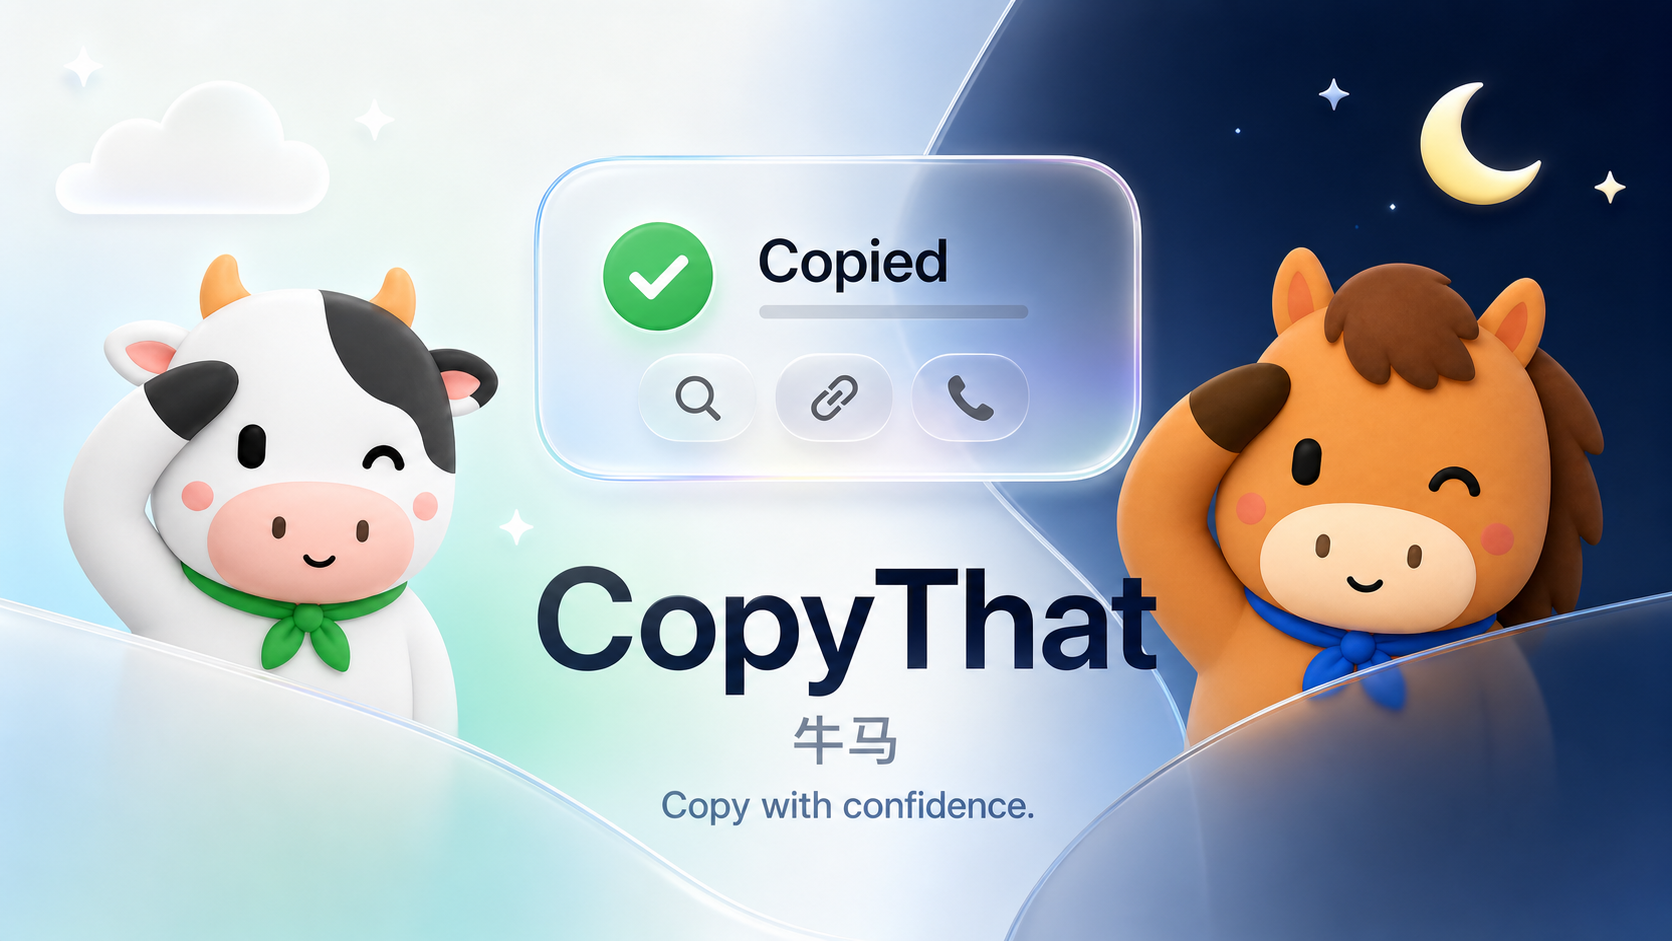
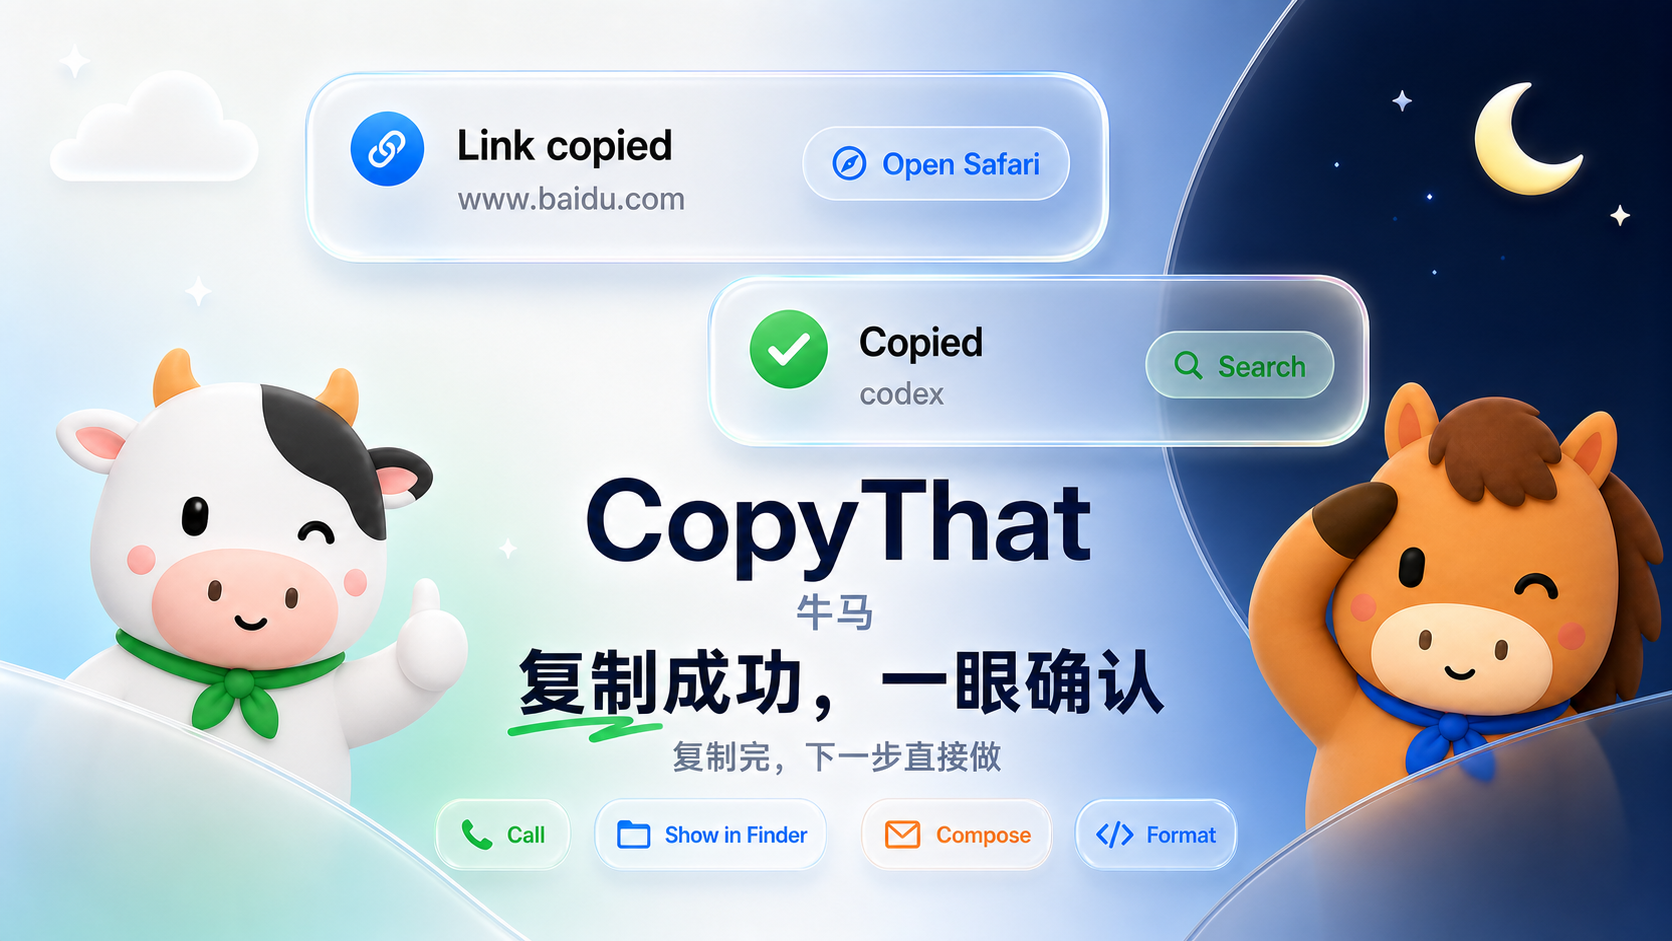
Refresh bilingual README and latest hero artwork

diff --git a/README.md b/README.md
@@ -1,121 +1,193 @@
 # CopyThat（牛马）1.5.0
 
-![CopyThat — Copy with confidence](marketing/CopyThat-Hero.png)
+![CopyThat — 复制成功，一眼确认](marketing/CopyThat-Hero.png)
 
-A lightweight native macOS menu bar app that confirms clipboard updates with a
-non-activating floating panel and offers safe, context-aware next actions.
+**CopyThat** is a lightweight native macOS copy-feedback assistant.<br>
+**牛马**是一款轻量的 macOS 原生复制反馈助手。
 
-**CopyThat** is the English product name. On a Simplified Chinese macOS system,
-the localized app name is **牛马**.
+[简体中文](#简体中文) · [English](#english)
 
-## Requirements
+---
+
+## 简体中文
+
+### 为什么做 CopyThat？
+
+这个项目最初源于一个很简单的烦恼：在 Mac 上按下 `Command + C`
+之后，偶尔会遇到复制没有生效的情况。
+
+系统没有明显反馈，所以在粘贴之前，很难确定内容到底有没有复制成功。
+CopyThat 最初只想解决这一件事：当系统剪贴板成功更新时，立即显示一个轻量浮窗，
+让我一眼确认刚才的内容确实复制成功了。
+
+继续开发后，我发现复制之后通常还有下一步操作。于是 CopyThat 从单纯的
+“复制成功提醒”，逐渐变成了一个轻量的复制助手：确认复制成功，并根据复制内容
+提供刚刚好的下一步操作。
+
+### 可以做什么？
+
+- **复制反馈**：剪贴板更新后立即显示不抢焦点的 Liquid Glass 浮窗。
+- **链接**：识别 `http://`、`https://` 和 `www.` 开头的地址，点击即可使用 Safari 打开。
+- **文字**：点击 **Search**，使用 DuckDuckGo、Bing、百度、Google 或自定义搜索引擎搜索。
+- **电话号码**：点击 **Call**，交给 macOS 的 `tel:` 处理程序拨打。
+- **邮箱地址**：点击 **Compose**，打开默认邮件 App 并自动填入收件人。
+- **Finder 文件**：点击 **Show in Finder**，直接显示文件所在位置。
+- **图片**：显示临时低分辨率缩略图，浮窗关闭后立即释放。
+- **代码**：本地识别 Python、JavaScript、Swift、HTML、CSS、JSON、SQL 和 Bash。
+- **格式化**：JSON 和 Python 可在用户主动点击 **Format** 后预览并复制格式化结果。
+- **自定义检测**：可在设置中分别启用或关闭不同内容类型。
+
+### 它不是什么？
+
+CopyThat **不是剪贴板历史管理器**：
+
+- 不保存复制历史
+- 不建立剪贴板数据库
+- 不上传剪贴板内容
+- 不记录剪贴板原文
+- 不包含统计、遥测或自动更新服务
+
+所有内容识别均在 Mac 本地完成。只有当你主动点击 **Search**、**Open Safari**、
+**Call** 或其他外部操作时，对应内容才会交给系统 App 或你选择的搜索引擎。
+
+### 下载与安装
+
+1. 从 [最新 Release](https://github.com/evanlng/CopyThat/releases/latest) 下载 `CopyThat.dmg`。
+2. 打开 DMG，将 `CopyThat.app` 拖入“应用程序”文件夹。
+3. 从“应用程序”启动 CopyThat；它只显示在菜单栏，不会出现在 Dock。
+
+当前安装包使用临时签名，尚未经过 Apple 公证。首次启动时，macOS 可能要求你按住
+Control 点击应用并选择“打开”。免除此步骤需要 Apple Developer Program、
+Developer ID 签名和 Apple 公证。
+
+### 系统要求
+
+- macOS 14 或更高版本
+- Apple Silicon Mac（arm64）
+- 从源码构建需要 Xcode 27 beta 或更高版本
+- 无第三方依赖
+
+### 从源码运行
+
+1. 使用 Xcode 打开 `ClipboardFeedback.xcodeproj`。
+2. 选择 `ClipboardFeedback` scheme 和 **My Mac**。
+3. 点击 Run。
+
+最终产品名称是 `CopyThat.app`；简体中文系统中显示为“牛马”。
+
+### 性能与隐私设计
+
+- `ClipboardMonitor` 只检查 `NSPasteboard.changeCount`，正常间隔为 250 ms；
+  复制后短时间切换为 80 ms，并在 2.4 秒后恢复。
+- Timer tolerance 允许 macOS 合并唤醒；暂停反馈时计时器会完全停止。
+- 只有剪贴板变化后才进行一次有界分析，不持续处理内容。
+- 文本只短暂保留最多 1,000 个字符；文件最多读取 20 个 URL。
+- 图片仅生成最大 240 px 的临时缩略图，不写入磁盘或缓存。
+- 快速连续复制会复用同一个浮窗和 SwiftUI hosting view。
+- 最终 Apple Silicon Release 的空闲采样均为 0.0% CPU，内存约 25 MB。
+
+### 已知限制
+
+当前版本确认的是“系统剪贴板已经发生变化”。它不会全局监听 `Command + C`，
+因此无法直接弹出“复制失败”提示。未来若加入该功能，需要单独的键盘事件监听，
+并由用户授予输入监控或辅助功能权限。
+
+---
+
+## English
+
+### Why CopyThat?
+
+CopyThat started with a small but recurring frustration: after pressing
+`Command + C` on a Mac, a copy action would occasionally appear to do nothing.
+
+macOS provides no obvious confirmation, so it is difficult to know whether the
+clipboard was actually updated until you try to paste. The original goal of
+CopyThat was simple: show a lightweight floating HUD whenever a clipboard update
+succeeds, making successful copies immediately visible.
+
+While building it, I realized that copying is often only the first step.
+CopyThat therefore evolved from a copy-confirmation indicator into a lightweight
+assistant that recognizes the copied content and offers the most useful next action.
+
+### What can it do?
+
+- **Copy feedback**: shows a non-activating Liquid Glass HUD after a clipboard update.
+- **Links**: recognizes `http://`, `https://`, and `www.` addresses and opens them in Safari.
+- **Text**: searches with DuckDuckGo, Bing, Baidu, Google, or a custom search engine.
+- **Phone numbers**: hands the number to the macOS `tel:` handler through **Call**.
+- **Email addresses**: opens the default mail app with the recipient filled in through **Compose**.
+- **Finder files**: reveals copied files through **Show in Finder**.
+- **Images**: displays a temporary low-resolution thumbnail and releases it with the HUD.
+- **Code**: locally detects Python, JavaScript, Swift, HTML, CSS, JSON, SQL, and Bash.
+- **Formatting**: JSON and Python can be reviewed and copied after the user clicks **Format**.
+- **Configurable detection**: each smart content type can be enabled or disabled separately.
+
+### What is it not?
+
+CopyThat is **not a clipboard manager**:
+
+- It does not save clipboard history.
+- It does not create a clipboard database.
+- It does not upload clipboard contents.
+- It does not log copied text.
+- It contains no analytics, telemetry, or update service.
+
+All content detection runs locally. Copied data is handed to another app or a
+search engine only after you explicitly click an external action such as
+**Search**, **Open Safari**, or **Call**.
+
+### Download and install
+
+1. Download `CopyThat.dmg` from the [latest release](https://github.com/evanlng/CopyThat/releases/latest).
+2. Open the DMG and drag `CopyThat.app` into Applications.
+3. Launch CopyThat from Applications. It appears only in the menu bar and has no Dock icon.
+
+The current build is ad-hoc signed and has not been notarized by Apple. On first
+launch, macOS may require Control-clicking the app and choosing **Open**. Removing
+that step requires Apple Developer Program membership, Developer ID signing, and
+Apple notarization.
+
+### Requirements
 
 - macOS 14 or later
 - Apple Silicon Mac (arm64)
-- Xcode 27 beta or later (required for the native Icon Composer app icon)
-- No third-party packages
+- Xcode 27 beta or later when building from source
+- No third-party dependencies
 
-## Open and run
+### Run from source
 
 1. Open `ClipboardFeedback.xcodeproj` in Xcode.
-2. Select the `ClipboardFeedback` scheme and **My Mac** destination.
+2. Select the `ClipboardFeedback` scheme and **My Mac**.
 3. Press Run.
 
-The built product is `CopyThat.app`. It appears only in the menu bar and
-intentionally has no Dock icon.
+The built product is `CopyThat.app`; its Simplified Chinese display name is “牛马”.
 
-## Install a GitHub Release
+### Performance and privacy design
 
-1. Open `CopyThat.dmg`.
-2. Drag `CopyThat.app` into the Applications folder.
-3. Open CopyThat from Applications.
+- `ClipboardMonitor` checks only `NSPasteboard.changeCount`: every 250 ms normally,
+  briefly every 80 ms after a copy, then back to normal after 2.4 seconds.
+- Timer tolerance lets macOS coalesce wakeups, and pausing feedback stops the timer.
+- Content analysis runs once, and only after the clipboard changes.
+- At most 1,000 text characters and 20 file URLs are retained for the short-lived HUD.
+- Images become temporary thumbnails no larger than 240 px and are never written to disk.
+- Rapid copies reuse the same panel and SwiftUI hosting view.
+- Final Apple Silicon Release samples reported 0.0% idle CPU and about 25 MB of memory.
 
-The current downloadable build is ad-hoc signed because this project does not
-yet have a `Developer ID Application` certificate. On first launch, macOS may
-require Control-clicking the app and choosing **Open**. A public release without
-that step requires Apple Developer Program membership, Developer ID signing,
-and Apple notarization.
+### Known limitation
 
-## Privacy and permissions
+This version confirms that the system pasteboard changed. It does not globally
+observe `Command + C`, so it cannot explicitly display “Copy failed.” A future
+implementation would require a separate keyboard event monitor and user-granted
+Input Monitoring or Accessibility permission.
 
-- Clipboard contents are inspected locally and never sent over the network.
-- Clipboard contents are not logged or stored as history.
-- The app target uses App Sandbox without the outgoing-network entitlement.
-  The app contains no update checker, telemetry, external plugin runtime, or
-  script execution.
-- No Accessibility, Input Monitoring, or Screen Recording permission is needed
-  for the MVP because it observes `NSPasteboard.changeCount` rather than global
-  keyboard events.
-- **Launch at Login** uses `SMAppService`. For reliable registration, place a
-  signed build in `/Applications`. macOS may show it under **System Settings →
-  General → Login Items**.
+---
 
-## Behavior and architecture
+## Core modules / 核心模块
 
-- `ClipboardMonitor` checks only `NSPasteboard.changeCount`. It polls every 250 ms
-  normally, briefly switches to 80 ms after a copy, and returns to the normal
-  interval after 2.4 seconds. Timer tolerance lets macOS coalesce wakeups.
-  Pausing feedback stops the timer completely.
-- `ClipboardAnalyzer` performs one bounded inspection only after `changeCount`
-  changes. It retains at most 1,000 text characters and 20 file URLs for the
-  short-lived HUD; there is no history or database.
-- Shows text, link, phone number, email address, file, image, code, or generic feedback.
-- Prefers the semantic pasteboard URL type, then recognizes full `http://` and
-  `https://` strings. Addresses beginning with `www.` are normalized to HTTPS.
-- Uses a compile-time detector plugin protocol and one audited action interface.
-  Built-in actions open links in Safari, call phone numbers through
-  the system `tel:` handler, compose email through `mailto:`, and reveal files
-  in Finder. Actions run only after the user clicks the toast button.
-- Ordinary copied text includes a **Search** action that opens the query in Safari.
-  DuckDuckGo is the default; Bing, Baidu, Google, and a custom search URL template
-  are available in General settings. Custom templates use one `{query}` placeholder
-  inside an `http://` or `https://` query parameter. No text leaves the app unless
-  the user clicks Search.
-- Includes a Detection settings tab where each smart content type can be enabled
-  or disabled independently.
-- Image copies are decoded directly into a temporary thumbnail no larger than
-  240 pixels. The original image is never cached or written, and the thumbnail
-  is released when the HUD disappears.
-- Developer Mode recognizes Python, JavaScript, Swift, HTML, CSS, JSON, SQL, and
-  Bash using bounded local rules. It does not use AI, a compiler, or the network.
-- JSON and Python show a **Format** button. Formatting opens a review window and
-  changes the pasteboard only after **Copy formatted** is clicked. Python's first
-  version is deliberately conservative: it preserves indentation while cleaning
-  line endings and trailing whitespace outside triple-quoted strings.
-- Reuses one panel and its hosting view during rapid copies, reducing allocation
-  churn while resetting the 1.8-second dismissal timer.
-- Pauses dismissal while the pointer is over the panel, so link actions remain usable.
-- Positions the panel at the exact horizontal center near the top of the display
-  containing the mouse pointer, away from Notification Center.
-- On macOS 26 and later, the floating `NSPanel` hosts the same public SwiftUI
-  `glassEffect` API used by the settings preview. It does not stack
-  `NSVisualEffectView`, SwiftUI Material, a surface fill, or a custom blur over
-  native Liquid Glass. The system Material fallback is used only on macOS 14–15
-  or when Reduce Transparency is enabled.
-- General settings exposes three aligned slider positions backed by one snapped
-  value: **Clear** maps to native `Glass.clear`, **Balanced** maps to native
-  `Glass.regular`, and **Strong** uses native `Glass.regular` with a subtle
-  semantic tint. Clear never receives a tint or surface fill. The slider and its
-  three labels share the same full-width layout so their positions stay aligned.
-- Native Clear glass intentionally remains adaptive: macOS may retain some
-  diffusion for legibility, especially over white or high-contrast content.
-  Refraction and interactive response are more apparent over varied backgrounds
-  and while the pointer moves; the app does not replace that system behavior with
-  a fake zero-blur surface.
-- Includes adaptive mascot artwork: the light appearance uses the white cow icon,
-  while the dark appearance uses the night horse icon.
-- Never modifies the pasteboard when performing an external action.
-
-## Measured performance baselines
-
-The final CopyThat 1.5.0 Apple Silicon Release was sampled five times over 10
-seconds. Every idle CPU sample reported 0.0%; memory remained approximately 25
-MB with four to five threads. The HUD applies one native glass effect only while
-visible, and the settings slider performs no background work.
-
-## Known limitation
-
-This version confirms that the pasteboard changed. It does not observe Command+C,
-so it cannot report a failed copy attempt. That future feature would require a
-separate global event monitor and user-granted Input Monitoring or Accessibility
-permission.
+- `ClipboardMonitor` — pasteboard change detection / 剪贴板变化检测
+- `ClipboardAnalyzer` — bounded content analysis / 有界内容分析
+- `ContentDetectionPlugin` — local detector interface / 本地检测接口
+- `OverlayManager` and `OverlayView` — floating HUD / 浮窗管理与界面
+- `SettingsManager` and `SettingsView` — preferences / 设置管理
+- `CodeDetector` and `CodeFormatter` — local code tools / 本地代码工具
